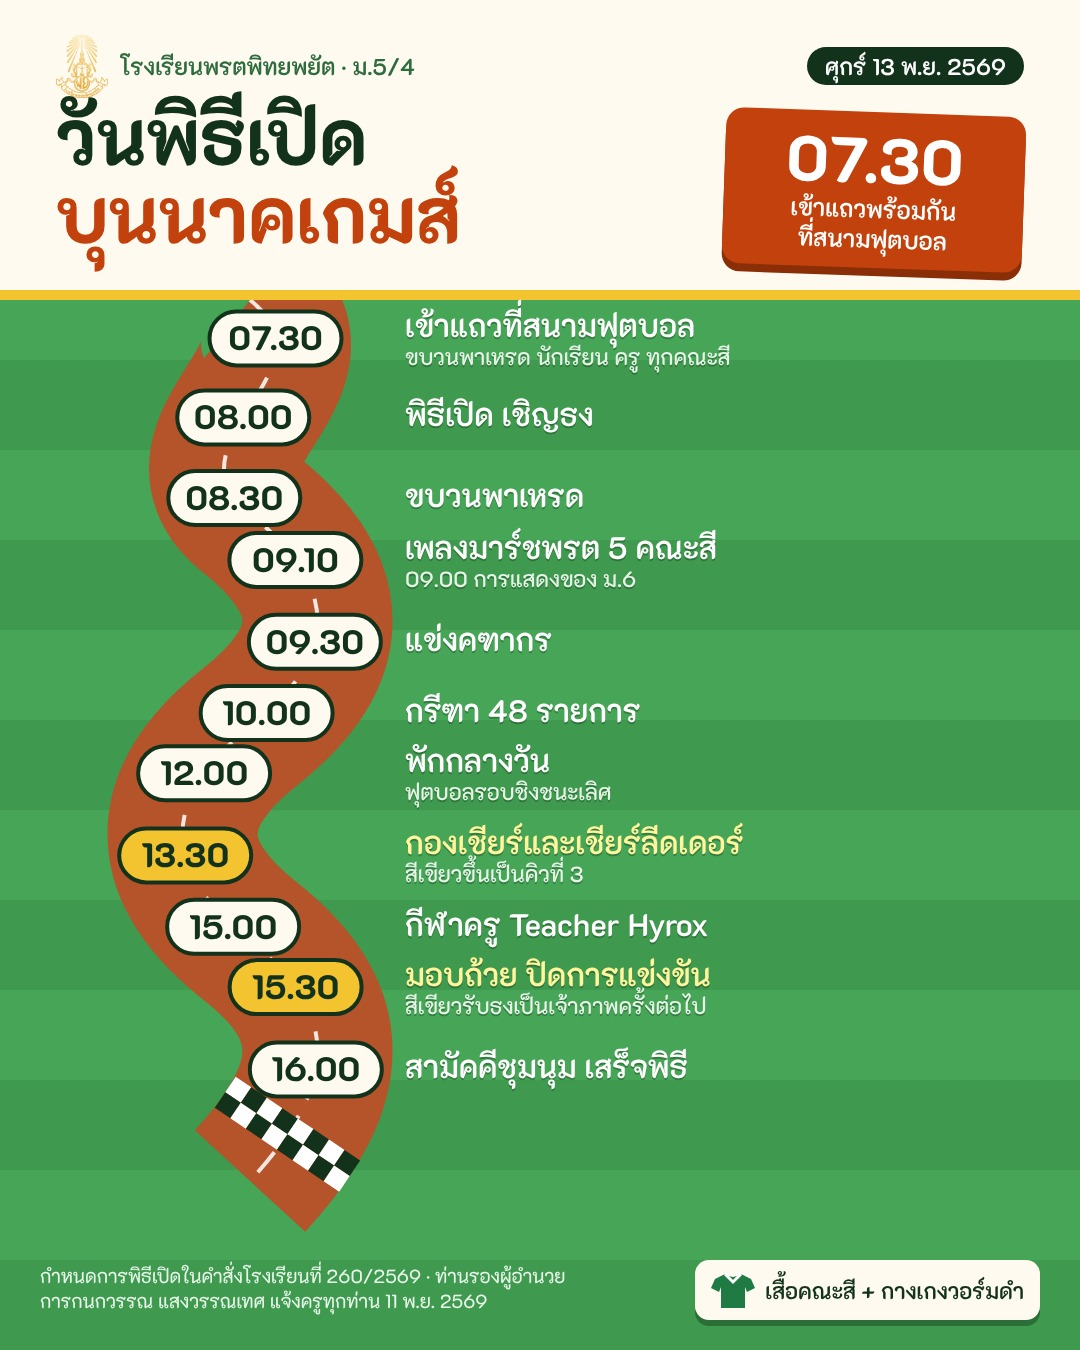
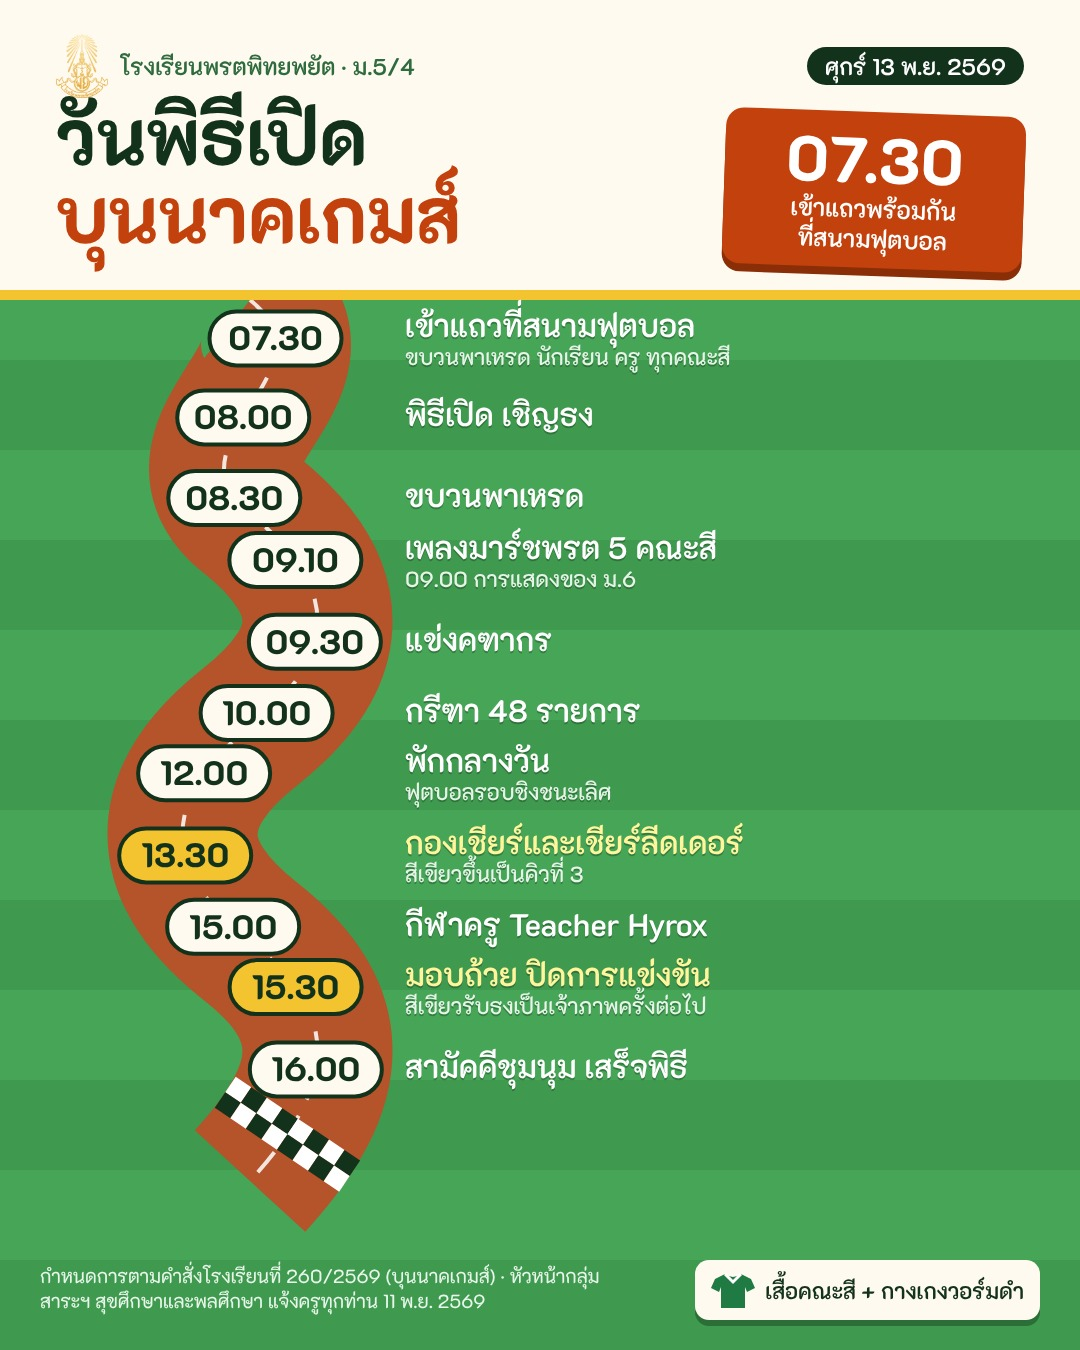
Opening ceremony news: correct who shared order 260/2569 (health & PE department head)
Claude-Session: https://claude.ai/code/session_017JzSfD3PtMhGFkFYsMC6jy

Changed region(s): [[0.0917, 0.9333, 0.55, 0.9956]]

diff --git a/data/news-2-2569.js b/data/news-2-2569.js
@@ -52,7 +52,7 @@ window.M54_NEWS.push(
   until: "2026-11-13",
   pin: false,
   summary: "วันศุกร์ที่ 13 พ.ย. 2569 พิธีเปิดการแข่งขันกีฬาภายใน บุนนาคเกมส์ นักเรียนและครูทุกคณะสีเข้าแถวที่สนามฟุตบอลเวลา 07.30 น. เพื่อเตรียมขบวนพาเหรด ใส่เสื้อประจำคณะสีกับกางเกงวอร์มขายาวสีดำ สีเขียวแข่งกองเชียร์เป็นคิวที่ 3 ช่วง 13.30 น. และรับธงเป็นเจ้าภาพครั้งต่อไปในพิธีปิด",
-  body: "กำหนดการพิธีเปิดการแข่งขันกีฬาภายใน บุนนาคเกมส์ วันศุกร์ที่ 13 พฤศจิกายน 2569\n- 07.30 น. ขบวนพาเหรด นักเรียน และครูทุกคณะสี เข้าแถวที่สนามฟุตบอล\n- 08.00 น. ประธานมาถึงบริเวณพิธี\n- 08.10 น. เชิญธงขึ้นสู่ยอดเสา\n- 08.15 น. พิธีเปิด\n- 08.30 น. ขบวนพาเหรดเข้าสนาม เรียงลำดับ ชมพู แดง เขียว ฟ้า น้ำเงิน (สีเขียวเป็นขบวนที่ 3)\n- 09.00 น. การแสดงของนักเรียน ม.6\n- 09.10 น. ร้องเพลงมาร์ชพรต 5 คณะสี\n- 09.30 น. การแข่งขันคฑากร\n- 10.00 น. กรีฑา 48 รายการ\n- 12.00 น. พักกลางวัน และฟุตบอลรอบชิงชนะเลิศ\n- 13.30 น. แข่งขันกองเชียร์และเชียร์ลีดเดอร์ (สีเขียวเป็นคิวที่ 3)\n- 15.00 น. กีฬาครู Teacher Hyrox\n- 15.30 น. มอบถ้วยรางวัล ปิดการแข่งขัน และมอบธงให้เจ้าภาพครั้งต่อไป คือคณะสีเขียว\n- 16.00 น. สามัคคีชุมนุม เสร็จพิธี\n\nการแต่งกายวันศุกร์: เสื้อประจำคณะสีปีล่าสุด กับกางเกงวอร์มขายาวสีดำ\n\nนักเรียน ม.5/4 มาให้ทัน 07.30 น. ไปพร้อมกันที่สนามฟุตบอล และอยู่เชียร์สีเขียวจนเสร็จพิธี 16.00 น. นะครับ\n\nที่มา: คำสั่งโรงเรียนพรตพิทยพยัต ที่ 260/2569 ส่วนกำหนดการพิธีเปิดบุนนาคเกมส์ ที่ท่านรองผู้อำนวยการกนกวรรณ แสงวรรณเทศ แจ้งครูทุกท่าน วันที่ 11 พฤศจิกายน 2569",
+  body: "กำหนดการพิธีเปิดการแข่งขันกีฬาภายใน บุนนาคเกมส์ วันศุกร์ที่ 13 พฤศจิกายน 2569\n- 07.30 น. ขบวนพาเหรด นักเรียน และครูทุกคณะสี เข้าแถวที่สนามฟุตบอล\n- 08.00 น. ประธานมาถึงบริเวณพิธี\n- 08.10 น. เชิญธงขึ้นสู่ยอดเสา\n- 08.15 น. พิธีเปิด\n- 08.30 น. ขบวนพาเหรดเข้าสนาม เรียงลำดับ ชมพู แดง เขียว ฟ้า น้ำเงิน (สีเขียวเป็นขบวนที่ 3)\n- 09.00 น. การแสดงของนักเรียน ม.6\n- 09.10 น. ร้องเพลงมาร์ชพรต 5 คณะสี\n- 09.30 น. การแข่งขันคฑากร\n- 10.00 น. กรีฑา 48 รายการ\n- 12.00 น. พักกลางวัน และฟุตบอลรอบชิงชนะเลิศ\n- 13.30 น. แข่งขันกองเชียร์และเชียร์ลีดเดอร์ (สีเขียวเป็นคิวที่ 3)\n- 15.00 น. กีฬาครู Teacher Hyrox\n- 15.30 น. มอบถ้วยรางวัล ปิดการแข่งขัน และมอบธงให้เจ้าภาพครั้งต่อไป คือคณะสีเขียว\n- 16.00 น. สามัคคีชุมนุม เสร็จพิธี\n\nการแต่งกายวันศุกร์: เสื้อประจำคณะสีปีล่าสุด กับกางเกงวอร์มขายาวสีดำ\n\nนักเรียน ม.5/4 มาให้ทัน 07.30 น. ไปพร้อมกันที่สนามฟุตบอล และอยู่เชียร์สีเขียวจนเสร็จพิธี 16.00 น. นะครับ\n\nที่มา: กำหนดการพิธีเปิดในคำสั่งโรงเรียนพรตพิทยพยัต ที่ 260/2569 เรื่อง แต่งตั้งคณะกรรมการกิจกรรมส่งเสริมสุขภาพและความสามัคคีของนักเรียน (บุนนาคเกมส์) ประจำปีการศึกษา 2569 ที่หัวหน้ากลุ่มสาระการเรียนรู้สุขศึกษาและพลศึกษาแจ้งครูทุกท่าน วันที่ 11 พฤศจิกายน 2569",
   event: { start: "2026-11-13", end: "", time: "07.30 น.", place: "สนามฟุตบอล", title: "พิธีเปิดบุนนาคเกมส์ เข้าแถว 07.30 น." },
   links: [ { label: "การแต่งกาย 11–13 พ.ย.", url: "https://watpolprot-cloud.github.io/prot-m54-2569/#n=2569-11-10-dress-games" }, { label: "ผลบุนนาคเกมส์ 11 พ.ย.", url: "https://watpolprot-cloud.github.io/prot-m54-2569/#n=2569-11-11-green-games-day1" } ],
   files: [ { label: "ลู่วิ่งกำหนดการวันพิธีเปิด 13 พ.ย.", path: "docs/2569/2569-11-13-opening-ceremony-info.jpg" } ],
